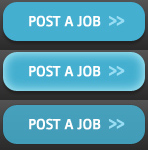
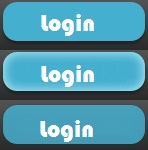
Detalles index

diff --git a/web/css/main.css b/web/css/main.css
@@ -147,7 +147,7 @@ body
 
 #sub_header .search h2
 {
-  background: url(../images/header-job.jpg) no-repeat;
+  /*background: url(../images/header-job.jpg) no-repeat;*/
   height: 23px;
   width: 250px;
   margin-bottom: 7px;

diff --git a/apps/frontend/templates/layout.php b/apps/frontend/templates/layout.php
@@ -18,9 +18,9 @@
  
           <div id="sub_header">
             <div class="post">
-              <h2>Ask for people</h2>
+              <h2>Nuevo Proyecto</h2>
               <div>
-                <a href="<?php echo url_for('job/index') ?>">Post a Job</a>
+                <a href="<?php echo url_for('proyecto/index') ?>">Nuevo Proyecto</a>
               </div>
             </div>
  
